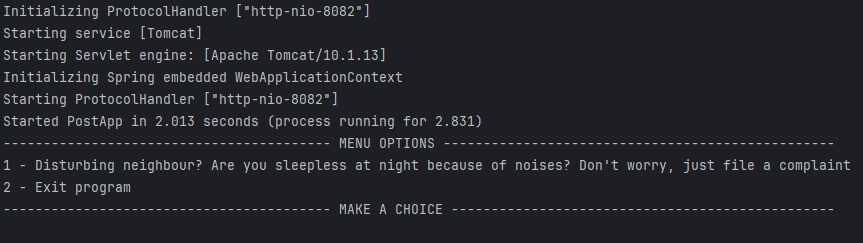
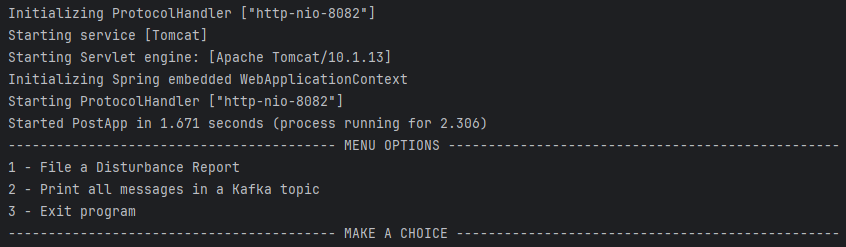
fixade readme och documentation

diff --git a/SpringBoot-ApacheKafka-Project/Utilities/src/main/java/com/utils/Output.java b/SpringBoot-ApacheKafka-Project/Utilities/src/main/java/com/utils/Output.java
@@ -15,7 +15,7 @@ public class Output {
     public static void printPostToAPIMenu() {
         log.info("""
                 ----------------------------------------- MENU OPTIONS -------------------------------------------------
-                1 - File a complaint
+                1 - File a Disturbance Report
                 2 - Print all messages in a Kafka topic
                 3 - Exit program
                 ----------------------------------------- MAKE A CHOICE ------------------------------------------------

diff --git a/SpringBoot-ApacheKafka-Project/Installation&Documentation/Documentation.md b/SpringBoot-ApacheKafka-Project/Installation&Documentation/Documentation.md
@@ -14,7 +14,7 @@ I sin helhet låter applikationen användaren:
 Arbetet började med att förstå konceptet i hur man använder Apache Kafka som integrationsplattform och jag använde mig då av [den här spellistan](https://www.youtube.com/playlist?list=PLGRDMO4rOGcNLwoack4ZiTyewUcF6y6BU).  
 Jag valde sedan att komma på en idé om hur jag ville forma mitt egna program - Jag kom på vad för typ av data jag vill skicka, hur denna data ska skickas och behandlas och även vilken databas som ska lagra datan.
 ### Vad som varit svårt
-Själva implementationen i applikationen har inte varit så värst komplicerad, utan det svåraste har varit strukturen i projektet.  
+Själva implementationen i applikationen har inte varit omöjlig, utan det svåraste har varit strukturen i projektet och att modulerna har varit bråkiga under hela projektets gång.  
 En felplacerad klass i en modul kan ha förödande konsekvenser och göra programmet helt okörbart. Därför är det av största vikt att ha tydliga ansvarsområden för varje enskild modul, så att de ej "krockar" med en annan modul.  
 Något som var besvärligt till en början var även att låta en modul ha en annan modul som en dependency.
 ### Beskriv lite olika lösningar du gjort samt motiveringar till dessa
@@ -36,18 +36,24 @@ Något som var besvärligt till en början var även att låta en modul ha en an
 
 
   + ReportRepository:
-    + *Lösning:* Gör det möjligt för MongoConsumer att enkelt spara data i MongoDB
+    + *Lösning:* Gör det möjligt för MongoConsumer att enkelt spara data i MongoDB.
 ---
 
 + **KafkaProducer-modulen**
   + KafkaProducer:
     + *Lösning:* Ansvarar för att skicka data, genom en JSON-sträng som inparameter, till en specifik Topic med hjälp av en MessageBuilder. Ansvarar även för att fånga upp eventuella fel så att program inte kraschar*
-    +*Motivering:* Genom att låta Producern skicka en JSON-sträng istället för ett Java-objekt slipper jag ha ännu en klass som behöver representera datan jag skickar. I en tidigare lösning hade jag just det, och det medförde massa trassel. Dels pga att jag inte visste till en början att man inte kunde "circulera" klasser som tillhörde en modul, utan behövde göra en helt separat modul som t.ex håller alla DTO-klasser. Enligt mig så är det enklare och snyggare att skicka en JSON-sträng och låta varje modul välja hur denne vill handskas med datan, genom Singel Responsibility principen.
+    + *Motivering:* Genom att låta Producern skicka en JSON-sträng istället för ett Java-objekt slipper jag ha ännu en klass som behöver representera datan jag skickar. I en tidigare lösning hade jag just det, och det medförde massa trassel. Dels pga att jag inte visste till en början att man inte kunde "circulera" klasser som tillhörde en modul, utan behövde göra en helt separat modul som t.ex håller alla DTO-klasser. Enligt mig så är det enklare och snyggare att skicka en JSON-sträng och låta varje modul välja hur denne vill handskas med datan, genom Singel Responsibility principen.
   
   
   + RestController: 
     + *Lösning:* Sätter upp ett API med en endpoint som gör det möjligt att låta användaren skicka data med en POST-request. Metoden tar emot en JSON-sträng samt fångar eventuella Response-fel*
     +*Motivering:* Egentligen samma motivering som för KafkaProducer. JSON-string blir enklare att hantera i det långa loppet, då jag anser att det är enklare att skicka en JSON-sträng än ett Java-objekt. Felhanteringen gör även att programmet inte kraschar lika lätt.
+---
+
++ **POJOs-modulen**
+  + *Lösning:* POJO klasser som behövs av både PostToAPI-modulen och KafkaMongoConsumer-modulen.
+  + *Motivering:* Detta gör att andra moduler som behöver använda sig av dessa klasser kan göra det utan att behöva skapa egna klasser, vilket hade brutit mot DRY-principen samt att det blir snyggare.
+
 ---
 
 + **PostToAPI-modulen**
@@ -57,17 +63,21 @@ Något som var besvärligt till en början var även att låta en modul ha en an
  
 
   + Application:
-    + *Lösning:* Tillåter användaren att loopa programmet tills det att han bestämmer sig för att avsluta applikationen.
+    + *Lösning:* Ger användaren olika menyval och tillåter även att loopa programmet tills det att användaren bestämmer sig för att avsluta applikationen.
    
 
   + ConsoleConsumer:
-    + *Lösning:* Skriver ut data som skickas från ApacheKafkaAPI i JSON-format till konsolen.
+    + *Lösning:* På begäran skrivs alla messages i en topic ut i konsolen till användaren i ett snyggare JSON-format tack vare en utility klass.
+    + *Motivering:* Tidigare lösning var att Consumern skrev ut så fort något hade skickats mot API:et, men efter att ha följt en lektion av min lärare, Marcus.H, så bestämde jag mig att göra om det till nuvarande implementation istället. Dock så är metoden i fråga static, vilket jag personligen inte hade valt eftersom det kommer bli svårare att skriva tester på den, men den gör sitt jobb väl så jag är nöjd. 
    
 
   + ReportDTO:
-    + *Lösning:* Implementerar Serialized. Skapar en mall för hur data ska se ut när den skickas till API:et.
+    + *Lösning:* Implementerar Serialized. Skapar en mall för hur data ska se ut när den skickas mot API:et.
     + *Motivering:* Här har jag däremot valt att skapa en DTO-klass för att representera data. Detta gör det lättare att hantera användarens input samt att det är lättare att låta ett bibliotek konvertera data till JSON-format istället för att skriva det själv.
-   
+
+  + ReportDTOHandler:
+    + *Lösning:* Ansvarar för att skapa en ReportDTO.
+    + *Motivering:* Jag ville ha en separat klass som utför skapandet istället för Application-klassen. Varför jag gjorde detta var för att jag inte ville sprida ut ansvarsområden över flera klasser, och istället låta en hantera detta. Detta medför att jag kan lättare felsöka om något skulle gå fel.
 
   + Sender(Interface):
     + *Lösning:* Gör det möjligt för klasser som implementerar dessa metoder att implementera dem hur de själva vill. 
@@ -78,11 +88,19 @@ Något som var besvärligt till en början var även att låta en modul ha en an
     + *Lösning:* Ett interface avsedd för alla DTO-klasser.
     + *Motivering:* När DTO-klasser implementerar detta interface ges möjligheten för ApacheKafkaAPI att kunna ta emot en Serialized som inparameter, istället för varje enskild DTO. I skrivande stund är ReportDTO den enda klassen, men om det hade funnits fler klasser så slipper man att skriva en metod för varje klass.
    
+---
 
-  + Input:
-    + *Lösning:* Ansvarar för att ta användarens input.
-    + *Motivering:* Att se till att data som matas in är korrekt så att det förhindrar problem vidare i programmet är av största vikt. Används felaktiga värden, som "åäö" t.ex, så bes användaren att mata in korrekt värde till det att kravet uppnås. Detta medför att programmet inte kraschar lika lätt.
++ **Utilities-modulen**
+  + *Lösning:* Tidigare lösning var att ha nedanstående klasser inuti PostToAPI-modulen men jag valde att flytta dem till Utilities-modulen istället.
+  + *Motivering:* Väljer jag att bygga ut programmet i framtiden kommer jag behöva dessa klasser och då är det bättre att kunna lägga till Utilities som en dependency istället för att skriva om allting på nytt.
+
+    + Input:
+      + *Lösning:* Ansvarar för att ta användarens input.
+      + *Motivering:* Att se till att data som matas in är korrekt så att det förhindrar problem vidare i programmet är av största vikt. Används felaktiga värden, som "åäö" t.ex, så bes användaren att mata in korrekt värde till det att kravet uppnås. Detta medför att programmet inte kraschar lika lätt.
   
+    + JSONFormatter:
+      + *Lösning:* Ansvarar för att formatera JSON-strängar till ett snyggare format.
+      + *Motivering:* Detta gör att det blir lättare att läsa JSON-strängar i konsolen.
 
   + Output:
     + *Lösning:* Skriver ut menyalternativ för användaren samt meddelar om input är ej korrekt.
@@ -97,6 +115,8 @@ Det som än idag skaver är att jag inte lyckats automatisera ledarbytet när en
 Min första lösning var att ha 3 olika program. Ett program skulle sköta Apache Kafka, ett program skulle sköta allt med POST-request samt att låta användaren fylla i formuläret, ett program skulle låta en användare, som i själva verket skulle vara en "hyresvärd"/"styrelse", utföra CRUDL-operationer mot databasen för att bla kunna markera ärendet som löst, aka IsSolved = true.
 Detta visade sig bli otroligt rörigt, pga att du och jag som användare, blev då tvungna att ha flera fönster uppe och körandes samtidigt.
 Jag valde därför att göra om programmet till ett enda program, där allt sköts i ett och samma fönster. Detta gjorde att jag kunde få en bättre överblick över vad som hände i programmet och det blev även lättare att felsöka.
+---
+Efter att ha experimenterat lite ytterligare efter ovan rad var skriven så bestämde jag mig för att ändra om lite i programmet och skapa nya moduler för att vissa delar i programmet kan återanvändas istället för att göras om på nytt.
 ## Slutsatser
 Överlag är jag mycket visare och klokare än vad jag var när jag precis började med projektet. Detta är något jag kommer att ta med mig som minne och vidareutveckla på ännu mer i kommande kurser och i arbetslivet.
 Programmet i sin helhet är ganska okomplicerat och det är lätt att förstå vad som händer. Att följa med i koden är inte heller så svårt.

diff --git a/README.md b/README.md
@@ -84,6 +84,7 @@ Sometimes, things go wrong for whatever reason. The most common of reasons, that
 + [Mongo Driver Core 4.10.2](https://mvnrepository.com/artifact/org.mongodb/mongodb-driver-core)
 + [Logback Classic 1.4.11](https://mvnrepository.com/artifact/ch.qos.logback/logback-classic/1.4.11)
 + [Apache Http Client5 5.2.1](https://mvnrepository.com/artifact/org.apache.httpcomponents.client5/httpclient5)
++ And more in the pom.xml files.
 
 ---
 ### License
